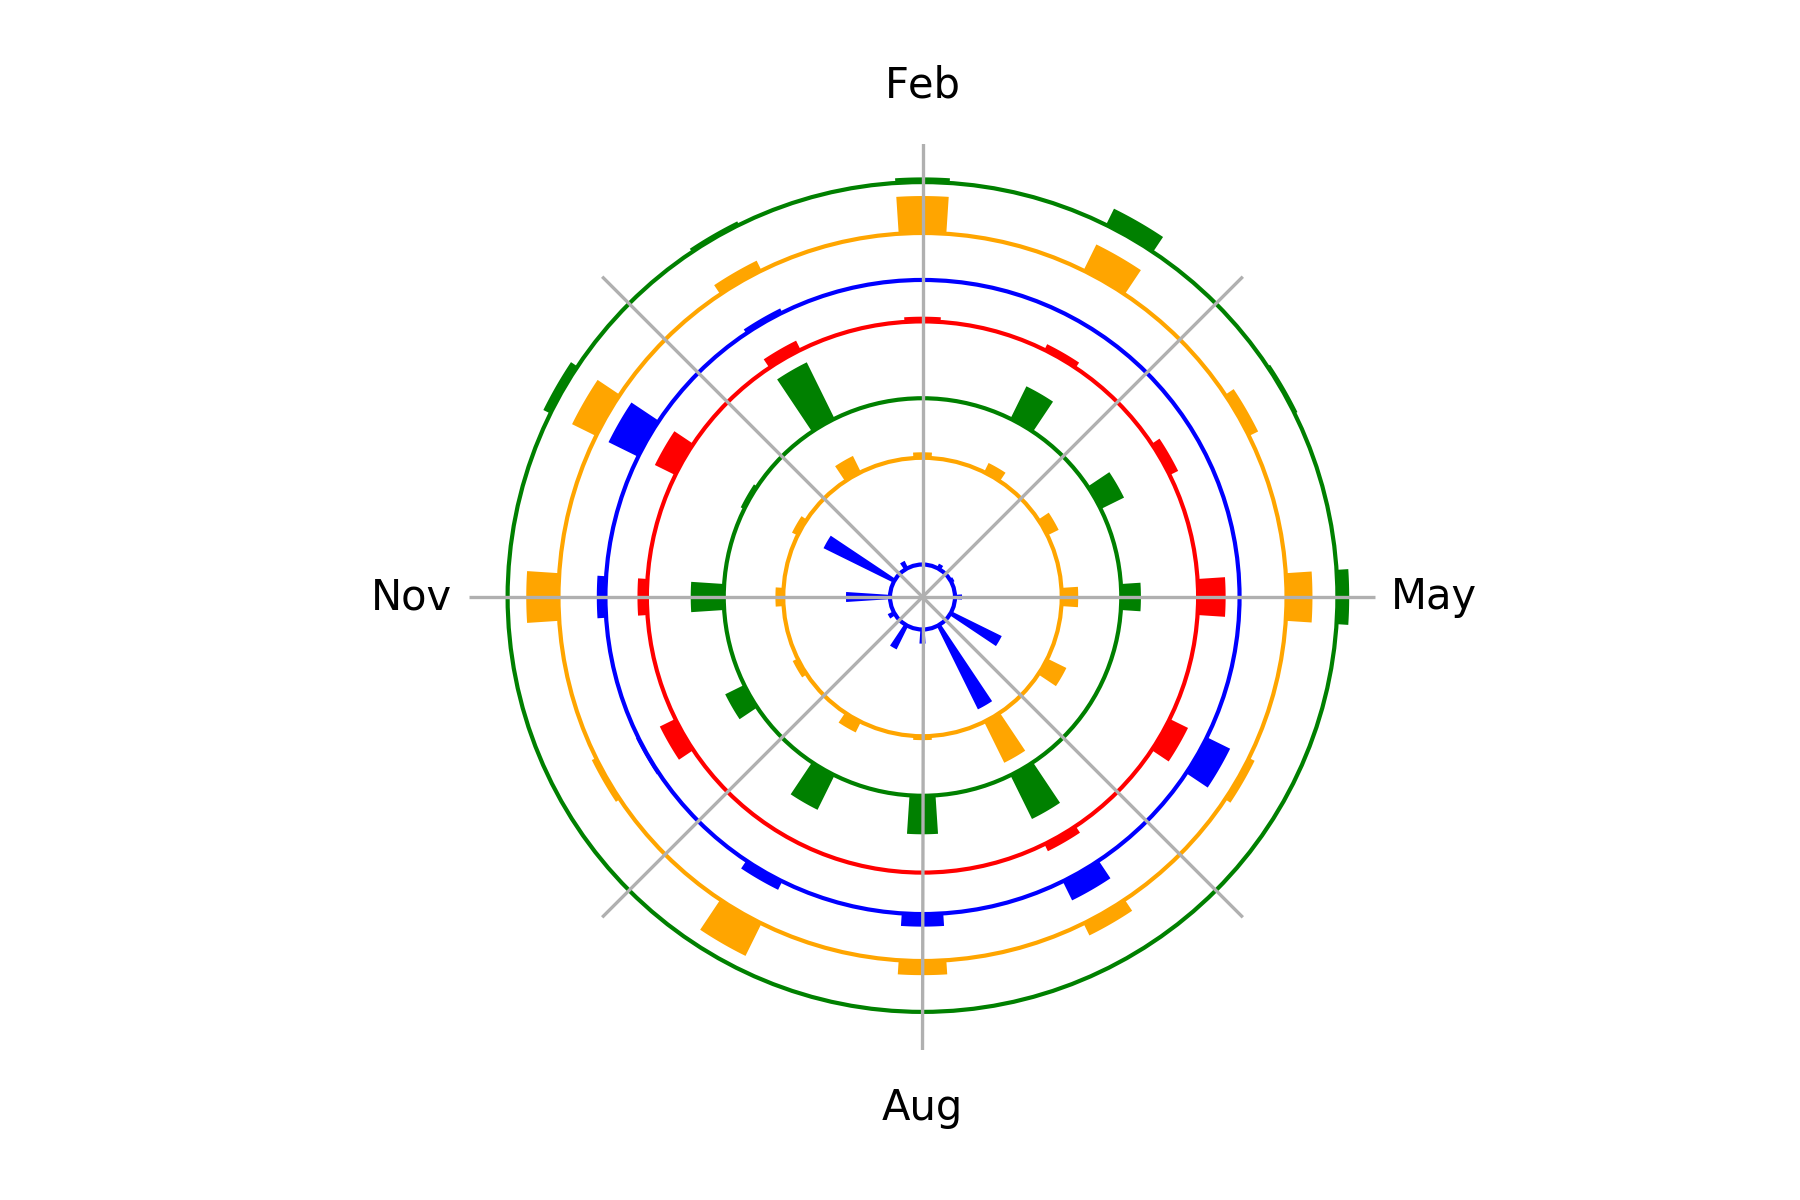
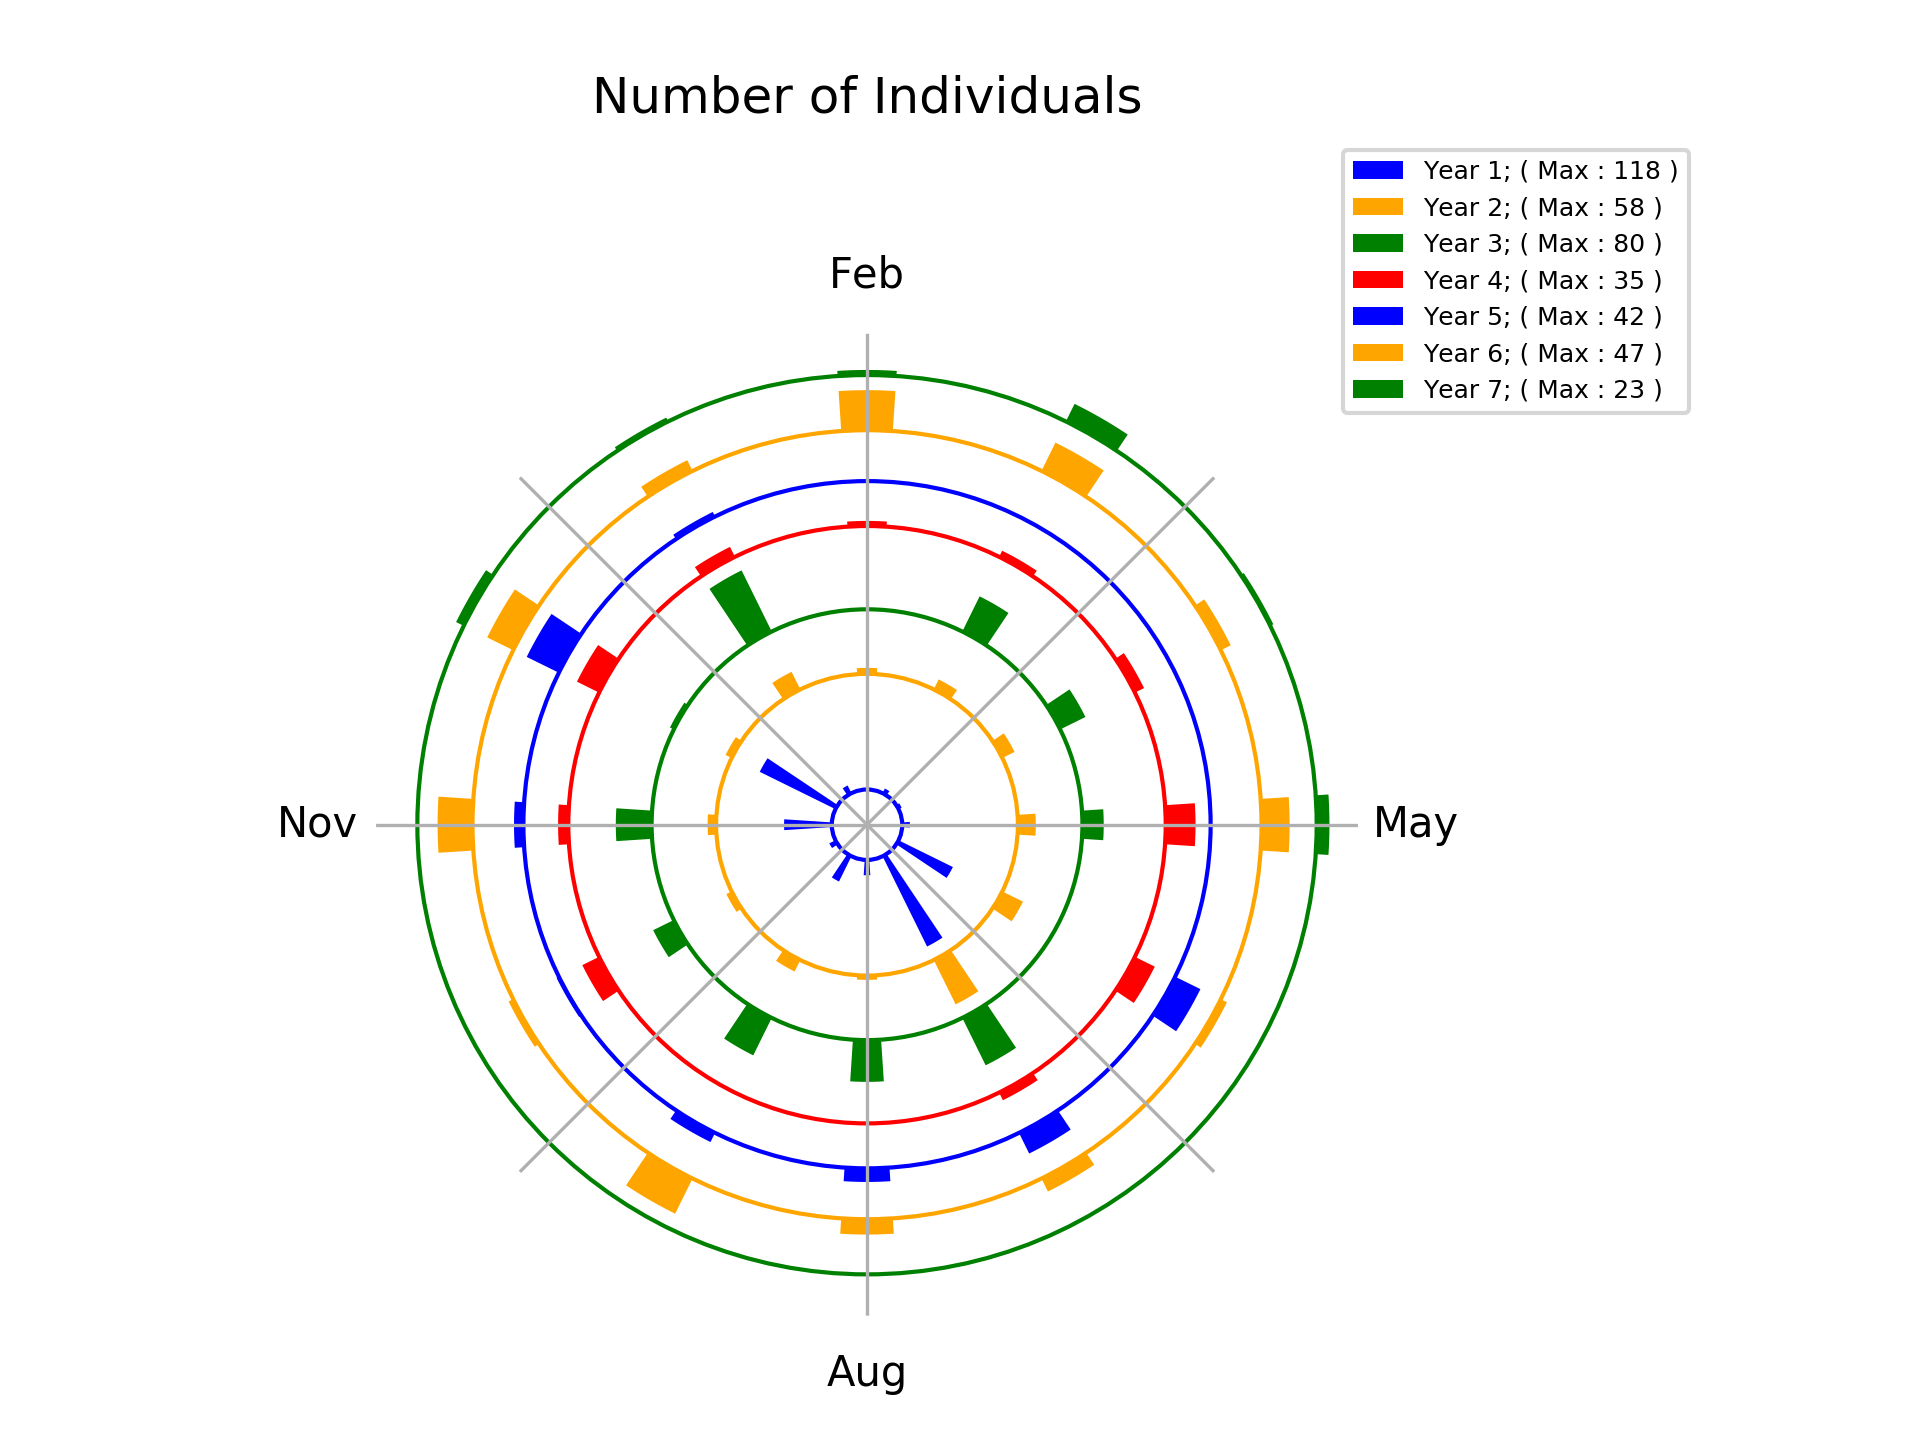
Legends Added

Changed region(s): [[0.1244, 0.0925, 0.8711, 0.9558], [0.3111, 0.0617, 0.5911, 0.0925], [0.4356, 0.925, 0.4667, 0.9867]]

diff --git a/stacked_circular_plot.py b/stacked_circular_plot.py
@@ -12,6 +12,7 @@ radii[3] = [35,12,8,6,13,29,12,22,0,0,10,26]
 radii[4] = [0,0,0,0,6,42,11,3,12,16,27,33]
 radii[5] = [33,13,37,47,14,34,41,6,46,18,17,8]
 radii[6] = [15,4,23,6,5,10,0,0,0,0,0,0]
+plot_title = "Number of Individuals"
 
 c = ['blue', 'orange', 'green', 'red','blue', 'orange', 'green', 'red']
 
@@ -44,15 +45,21 @@ ax = plt.subplot(111, polar=True)
 ax.spines['polar'].set_visible(False)
 #ax.axes.get_xaxis().set_visible(False)
 ax.axes.get_yaxis().set_visible(False)
-
+ax.set_title(plot_title, y=1.2)
 
 ## Feed data and labels to circular axis
 for i in range(len(max_height_all)): 
     bars = ax.bar(theta, radii[i], width=width, bottom=bottom_all[i], color=c[i], fill=True)
     circle = plt.Circle((0, 0), bottom_all[i], transform=ax.transData._b, color=c[i], fill=False)
     ax.add_artist(circle)
+
 ax.set_xticklabels(['May','','Feb','','Nov','','Aug'])
 
+## Show legends
+legend_text = ["Year " + str(i+1) + "; ( Max : " + str(max_height_all[i]) + " )" for i in range(NoY)]
+lgd = ax.legend(legend_text, loc=1, bbox_to_anchor=(1.35, 1.2), prop={'size':6}, ncol=1, labelspacing=0.5)
+
 ## Show / Save
-plt.savefig('test.png', dpi=300, transparent=True)
+plt.tight_layout()
+plt.savefig('./test.png', dpi=300, transparent=True, bbox_extra_artists=(lgd,))
 plt.show()
